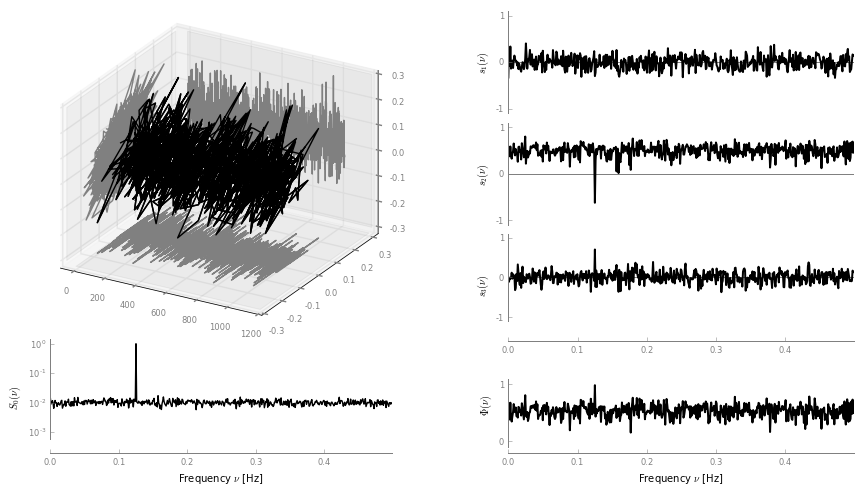
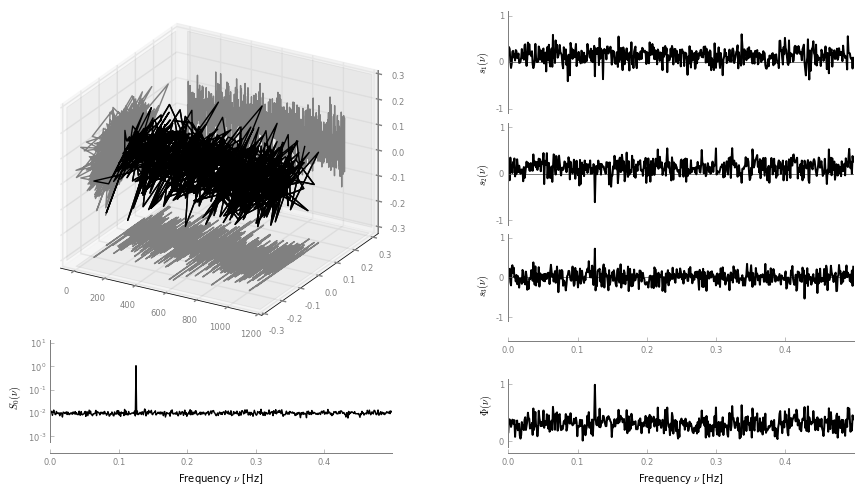
updating value definitions

diff --git a/doc/tutorials/spectralanalysis.rst b/doc/tutorials/spectralanalysis.rst
@@ -153,9 +153,6 @@ We proceed similarly. First define the different parameters:
 .. code:: python
 
     N = 1024 # length of the signal
-    S0 = 1 # power of the bivariate WGN
-    P0 = .5 # degree of polarization
-    theta0 = np.pi/4 # angle of linear polarization
     
     t = np.arange(0, N) # time vector
     dt = (t[1]-t[0])
@@ -168,8 +165,8 @@ We proceed similarly. First define the different parameters:
     
     # bivariate WGN noise paramerters
     S0_w = 10**(-2) # power of the bivariate WGN
-    Phi_w = .5 # degree of polarization
-    theta_w = np.pi/4 # angle of linear polarization
+    Phi_w = .2 # degree of polarization
+    theta_w = np.pi/8 # angle of linear polarization
 
 Now, simulate a bivariate monochromatic signal (note the use of the
 argument ``complexOutput`` which provides a complex output (useful for
